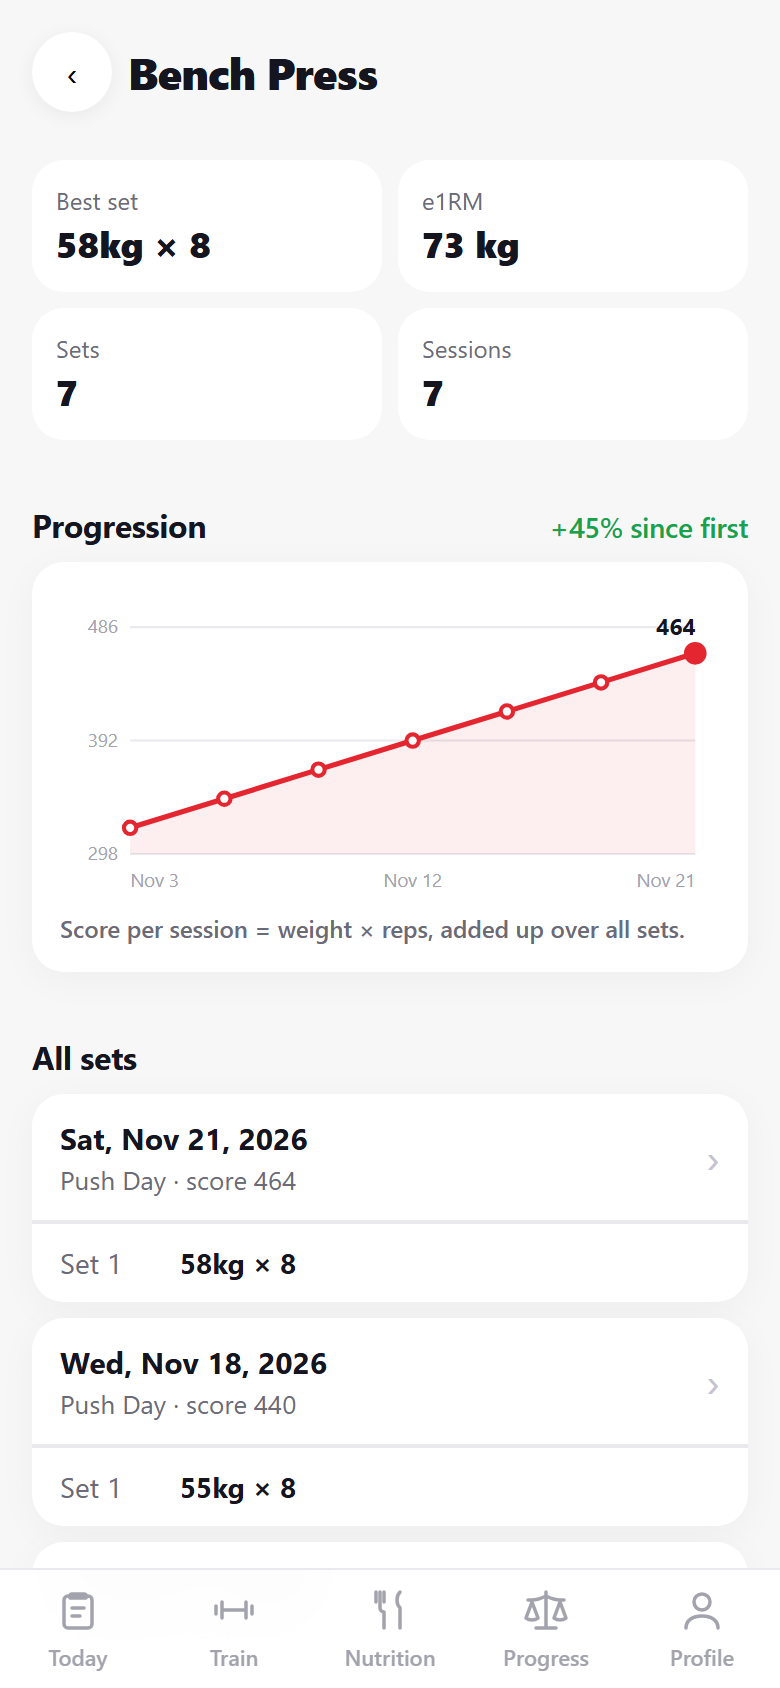
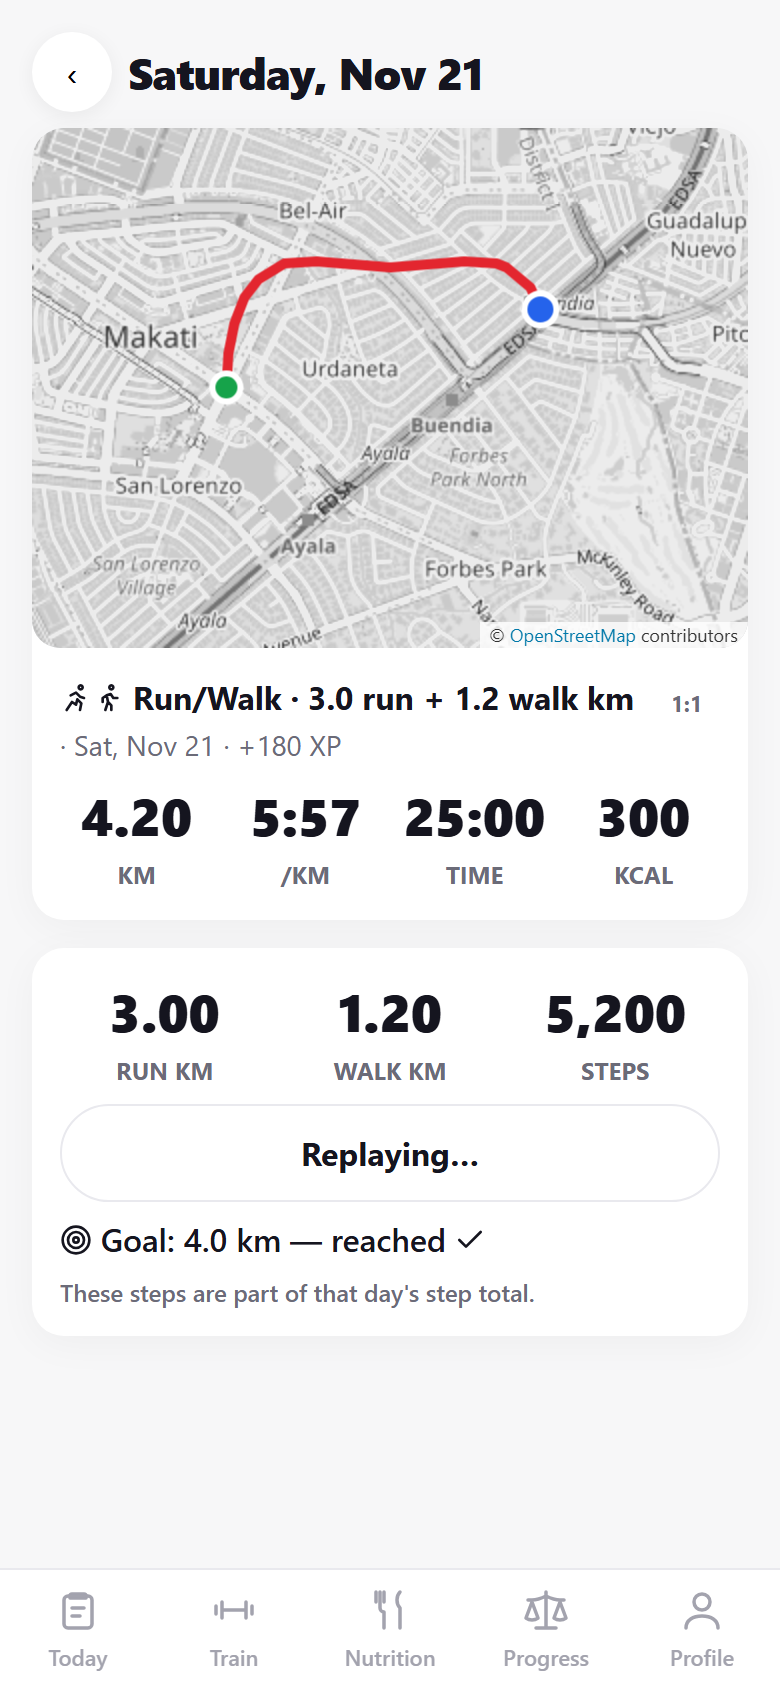
Website: clearer features, Neon rank badges, new screenshots
- "What's inside" now says what the app does ("Train, run, eat and track
  - in one free app") with five numbered features; text aligns to the top
  of each phone so there's no big blank gap.
- New features: live map cardio with goals and intervals, route replay,
  step totals, custom ingredients with vitamins & minerals, missed-day
  make-up, rank-ups celebrated after the workout.
- Ranks section uses the Neon badge set (Iron -> Arnold) and the 11 muscle
  / cardio icons; mentions big quest XP.
- Fresh screenshots of the current app.

diff --git a/index.html b/index.html
@@ -69,47 +69,58 @@
   <section class="features" id="features">
     <div class="wrap">
       <p class="eyebrow dark">What's inside</p>
-      <h2>Everything a lifter needs. Nothing they don't.</h2>
+      <h2>Train, run, eat and track — in one free app.</h2>
+      <p class="sub">Five things RepWise does for you, every day.</p>
     </div>
 
     <article class="wrap feat">
       <div class="feat-copy">
-        <span class="tag">Your plan</span>
+        <span class="tag">1 · Your plan</span>
         <h3>A program built around your week</h3>
         <p>Tell RepWise how many days you can train, which days are off-limits, how long a session can be and what equipment you have. It picks the split — Full Body, Upper / Lower, PPL and more — and lays out your week.</p>
-        <ul class="ticks"><li>Schedules around work, class and family days</li><li>Exercises chosen for full gym, dumbbells or bodyweight</li><li>Change any day later with one tap</li></ul>
+        <ul class="ticks"><li>Schedules around work, class and family days</li><li>Gym, dumbbells or bodyweight only</li><li>Missed a day? Make it up within 2 days</li></ul>
       </div>
       <figure class="phone"><img src="/assets/screens/plan.png" alt="RepWise plan screen showing a 5-day split laid out Monday to Sunday" width="390" height="844"></figure>
     </article>
 
     <article class="wrap feat rev">
       <div class="feat-copy">
-        <span class="tag">In the gym</span>
+        <span class="tag">2 · In the gym</span>
         <h3>A coach on every set</h3>
-        <p>RepWise remembers last time and tells you exactly what to beat. Log weight, reps and reps-in-reserve, and the rest timer keeps you honest — no rushing into the next set.</p>
-        <ul class="ticks"><li>Progressive overload targets every set</li><li>Built-in timer for planks and holds</li><li>Easier versions when you can't do a move yet</li><li>Deload sessions explained and planned</li></ul>
+        <p>RepWise remembers last time and tells you exactly what to beat — heavier weight, or one more rep for push-ups and pull-ups. The rest timer keeps you honest: no rushing into the next set.</p>
+        <ul class="ticks"><li>Progressive overload targets every set</li><li>Built-in timer for planks and holds</li><li>Easier versions when you can't do a move yet</li><li>Every exercise's history with a progress graph</li></ul>
       </div>
       <figure class="phone"><img src="/assets/screens/player.png" alt="RepWise workout screen with a coaching tip for bench press" width="390" height="844"></figure>
     </article>
 
     <article class="wrap feat">
       <div class="feat-copy">
-        <span class="tag">Nutrition</span>
-        <h3>Food logging that speaks Filipino</h3>
-        <p>Adobo, sinigang, tapsilog, kwek-kwek — over 50 local dishes and 130 ingredients with real portions. Build a plate, see protein instantly, and save your usual meals for one-tap logging.</p>
-        <ul class="ticks"><li>Cooking method and oil change the calories</li><li>Intermittent fasting with your own eating window</li><li>Daily calorie and protein targets from your goal</li></ul>
+        <span class="tag">3 · Cardio</span>
+        <h3>Runs and walks on a live map</h3>
+        <p>A full-screen map follows you while you run, with your distance, time and pace below. Pick a goal — 5 km or 30 minutes — and a run : walk format like 1:1 or 3:1, and RepWise buzzes and tells you when to switch.</p>
+        <ul class="ticks"><li>Replay any run on the map afterwards</li><li>Automatic steps all day, with week / month / year totals</li><li>Optional route suggestions for loops and one-way runs</li></ul>
       </div>
-      <figure class="phone"><img src="/assets/screens/plate.png" alt="RepWise plate screen showing 3 eggs and 215 kcal" width="390" height="844"></figure>
+      <figure class="phone"><img src="/assets/screens/live.png" alt="RepWise live run screen with a full-screen map and run interval banner" width="390" height="844"></figure>
     </article>
 
     <article class="wrap feat rev">
       <div class="feat-copy">
-        <span class="tag">Progress</span>
-        <h3>See it working</h3>
-        <p>Your 7-day weight trend, goal finish date, body composition and every lift's history with a progression graph. Tap any exercise to see every set you've ever done.</p>
-        <ul class="ticks"><li>Weight trend that ignores daily water swings</li><li>Body fat from your measurements</li><li>Personal records and lift-by-lift history</li></ul>
+        <span class="tag">4 · Nutrition</span>
+        <h3>Food logging that speaks Filipino</h3>
+        <p>Adobo, sinigang, tapsilog, kwek-kwek — over 50 local dishes and 130 ingredients with real portions. Can't find something? Add your own ingredient straight from its nutrition label, vitamins and minerals included.</p>
+        <ul class="ticks"><li>Custom ingredients and meals, saved for one-tap logging</li><li>Cooking method and oil change the calories</li><li>Intermittent fasting with your own eating window</li></ul>
       </div>
-      <figure class="phone"><img src="/assets/screens/history.png" alt="RepWise exercise history with a progression graph for bench press" width="390" height="844"></figure>
+      <figure class="phone"><img src="/assets/screens/ingredient.png" alt="RepWise custom ingredient form with calories, protein, carbs and fat" width="390" height="844"></figure>
+    </article>
+
+    <article class="wrap feat">
+      <div class="feat-copy">
+        <span class="tag">5 · Progress</span>
+        <h3>See it working</h3>
+        <p>Your 7-day weight trend, goal finish date, body composition and lift-by-lift history. Every run is saved with its map, so you can watch where you went.</p>
+        <ul class="ticks"><li>Weight trend that ignores daily water swings</li><li>Body fat from your measurements</li><li>Personal records for every lift</li></ul>
+      </div>
+      <figure class="phone"><img src="/assets/screens/progress.png" alt="RepWise progress screen with weight trend and goal" width="390" height="844"></figure>
     </article>
   </section>
 
@@ -118,11 +129,11 @@
     <div class="wrap">
       <p class="eyebrow">Training is a game</p>
       <h2>Every set earns XP. Climb to Arnold.</h2>
-      <p class="lede center">Each muscle ranks up on its own. Iron is quick to leave — every tier after that is a longer climb. The last one is named after the greatest of all time.</p>
-      <ol class="ladder">
-        <li style="--c:#9ca3af">Iron</li><li style="--c:#cd7f32">Bronze</li><li style="--c:#a8b0bd">Silver</li><li style="--c:#eab308">Gold</li><li style="--c:#14b8a6">Platinum</li>
-        <li style="--c:#3b82f6">Diamond</li><li style="--c:#a855f7">Master</li><li style="--c:#ef4444">Grandmaster</li><li style="--c:#f97316">Legend</li><li class="top" style="--c:#d4a017">Arnold</li>
-      </ol>
+      <p class="lede center">Each muscle — and your cardio — ranks up on its own. Iron is quick to leave; every tier after that is a longer climb. When you rank up, RepWise celebrates after your workout, not in the middle of it.</p>
+      <ol class="ladder2"><li><img src="/assets/ranks/iron.png" alt="Iron" width="96" height="96"></li><li><img src="/assets/ranks/bronze.png" alt="Bronze" width="96" height="96"></li><li><img src="/assets/ranks/silver.png" alt="Silver" width="96" height="96"></li><li><img src="/assets/ranks/gold.png" alt="Gold" width="96" height="96"></li><li><img src="/assets/ranks/platinum.png" alt="Platinum" width="96" height="96"></li><li><img src="/assets/ranks/diamond.png" alt="Diamond" width="96" height="96"></li><li><img src="/assets/ranks/master.png" alt="Master" width="96" height="96"></li><li><img src="/assets/ranks/grandmaster.png" alt="Grandmaster" width="96" height="96"></li><li><img src="/assets/ranks/legend.png" alt="Legend" width="96" height="96"></li><li><img src="/assets/ranks/arnold.png" alt="Arnold" width="96" height="96"></li></ol>
+      <h3 class="muscles-h">11 ranks to climb at once</h3>
+      <ul class="muscles"><li><img src="/assets/muscles/chest.png" alt="Chest" width="88" height="88"></li><li><img src="/assets/muscles/back.png" alt="Back" width="88" height="88"></li><li><img src="/assets/muscles/shoulders.png" alt="Shoulders" width="88" height="88"></li><li><img src="/assets/muscles/biceps.png" alt="Biceps" width="88" height="88"></li><li><img src="/assets/muscles/triceps.png" alt="Triceps" width="88" height="88"></li><li><img src="/assets/muscles/quads.png" alt="Quads" width="88" height="88"></li><li><img src="/assets/muscles/hamstrings.png" alt="Hamstrings" width="88" height="88"></li><li><img src="/assets/muscles/glutes.png" alt="Glutes" width="88" height="88"></li><li><img src="/assets/muscles/calves.png" alt="Calves" width="88" height="88"></li><li><img src="/assets/muscles/core.png" alt="Core" width="88" height="88"></li><li><img src="/assets/muscles/cardio.png" alt="Cardio" width="88" height="88"></li></ul>
+      <p class="lede center small">Long-term quests — your first pull-up, a 5 km run — pay out thousands of XP.</p>
     </div>
   </section>
 

diff --git a/styles.css b/styles.css
@@ -54,7 +54,9 @@ h3{font-size:clamp(22px,2.6vw,30px);font-weight:800}
 
 /* features */
 .features{padding:96px 0 40px}
-.feat{display:grid;grid-template-columns:1fr auto;gap:64px;align-items:center;margin-top:88px}
+.feat{display:grid;grid-template-columns:1fr auto;gap:64px;align-items:start;margin-top:72px}
+.feat-copy{padding-top:56px}
+.features .sub{font-size:18px;color:var(--ink-2);margin-top:10px}
 .feat.rev{grid-template-columns:auto 1fr}.feat.rev .feat-copy{order:2}
 .feat .phone{width:300px;box-shadow:0 0 0 1.5px #d9d9e0,0 30px 60px #15151f2e}
 .feat-copy p{font-size:18px;color:var(--ink-2);margin-top:14px;max-width:520px}
@@ -148,3 +150,13 @@ details p{color:var(--ink-2);margin-top:10px}
 .shout h3{font-size:24px}
 .shout p{color:#c9c9d3;margin-top:12px}.shout b{color:#fff}
 @media (max-width:900px){.why-grid{grid-template-columns:1fr}}
+
+/* rank badges + muscle icons */
+.ladder2{list-style:none;display:grid;grid-template-columns:repeat(5,minmax(0,1fr));gap:12px;max-width:760px;margin:40px auto 0}
+.ladder2 li img{width:100%;height:auto;filter:drop-shadow(0 6px 18px #0008);transition:transform .2s}.ladder2 li:hover img{transform:translateY(-4px) scale(1.04)}
+.ladder2 li:last-child img{filter:drop-shadow(0 0 24px #d4a017aa)}
+.muscles-h{margin-top:56px;font-size:22px}
+.muscles{list-style:none;display:flex;flex-wrap:wrap;justify-content:center;gap:10px;margin-top:18px}.muscles img{width:84px;height:84px}
+.lede.small{font-size:16px;margin-top:24px}
+@media (max-width:900px){.feat-copy{padding-top:0}.ladder2{grid-template-columns:repeat(5,minmax(0,1fr));gap:6px}.muscles img{width:64px;height:64px}}
+@media (max-width:480px){.ladder2{grid-template-columns:repeat(5,minmax(0,1fr))}.muscles img{width:56px;height:56px}}
